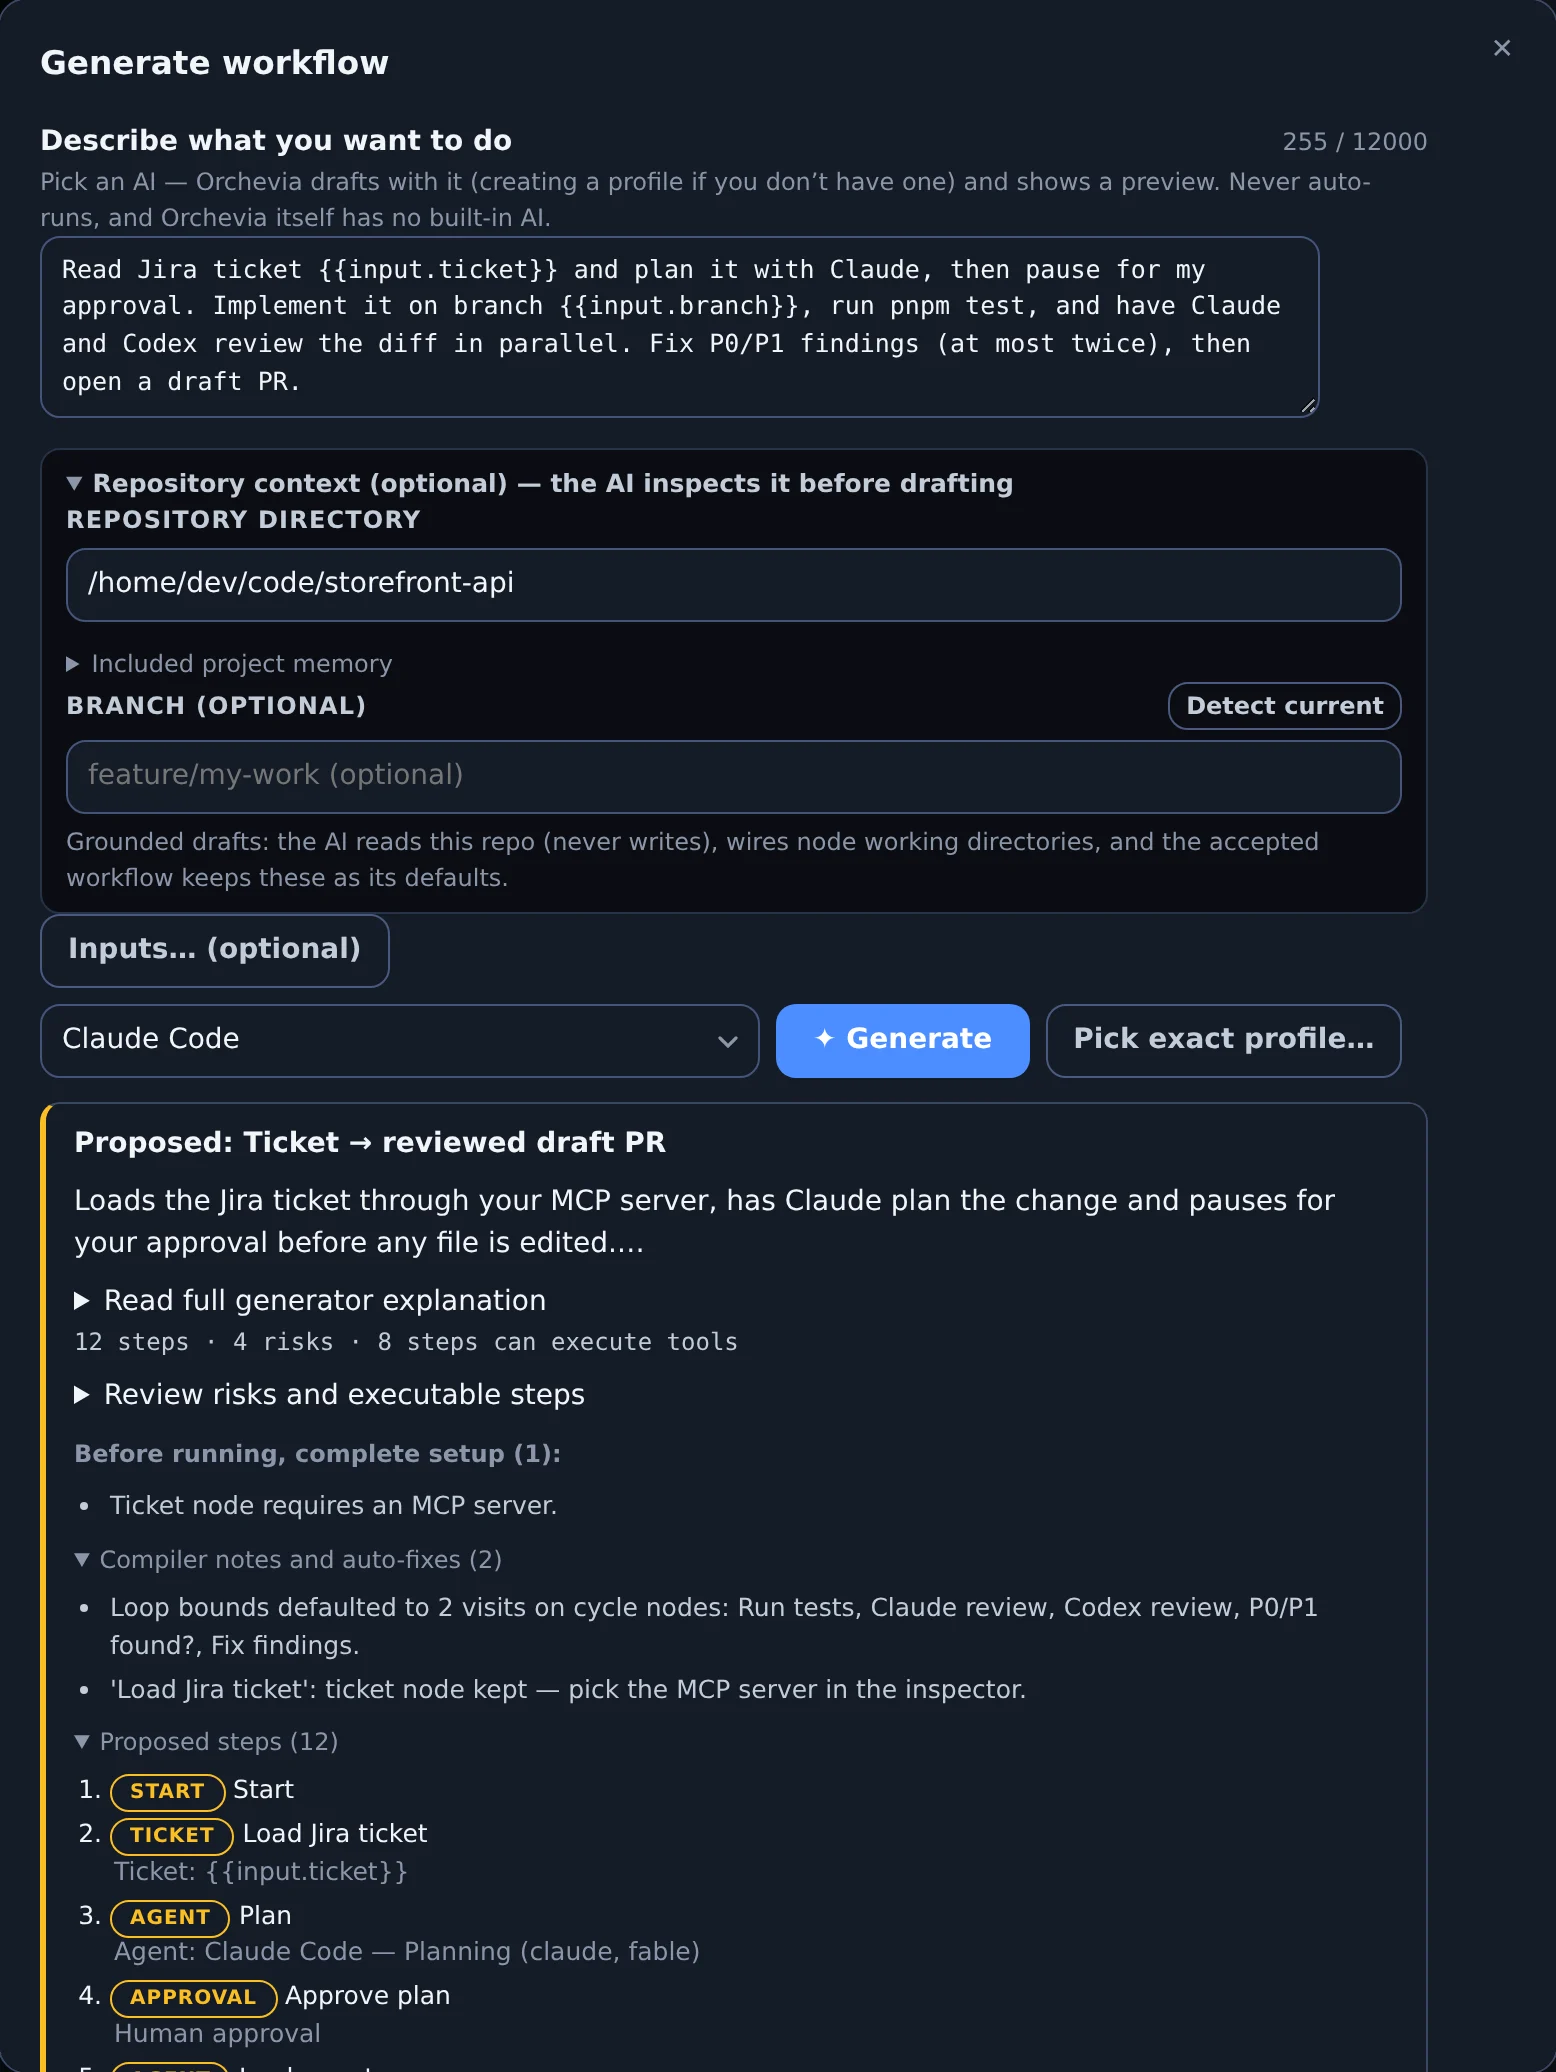
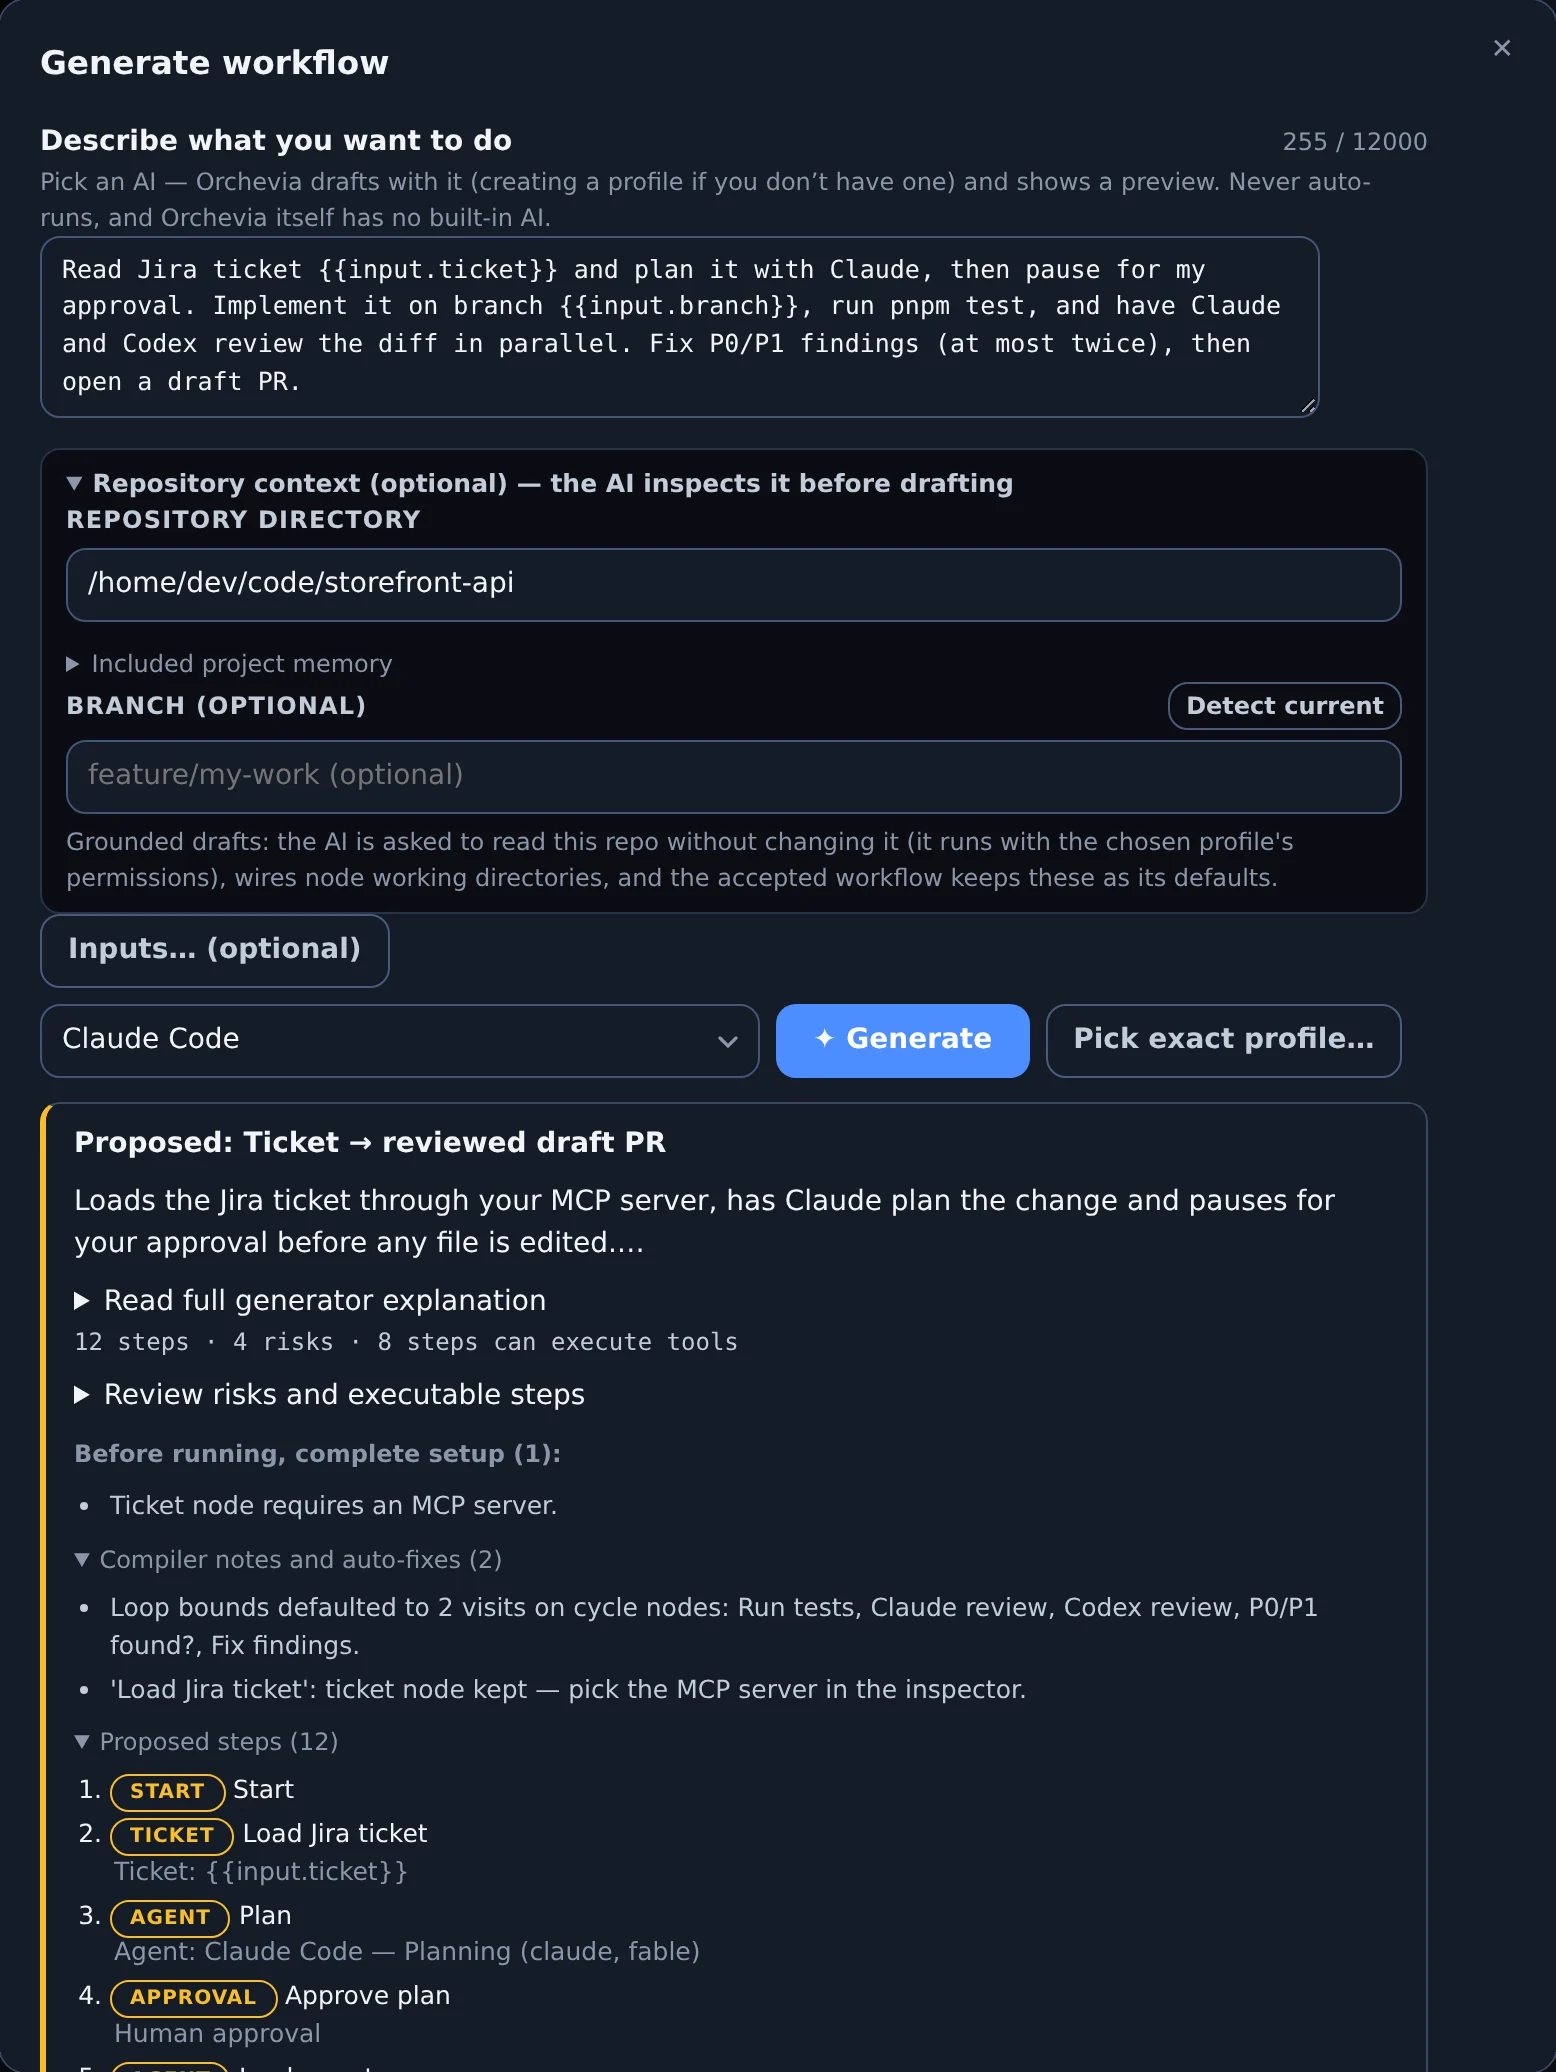
Describe generation and refusal detection accurately
Generation runs with the chosen profile's permissions, so it is asked not to
change the repository rather than guaranteed not to; refusal detection covers
Claude Code structured output only. Tour panels are now focusable.

Changed region(s): [[0.0617, 0.4015, 0.8329, 0.4324]]

diff --git a/docs/index.html b/docs/index.html
@@ -290,6 +290,9 @@
         font-size: 13px;
         margin-top: 14px;
       }
+      figure.shot-hero {
+        margin: 0;
+      }
       .window {
         margin: 40px auto 8px;
         border: 1px solid var(--border-strong);
@@ -1149,8 +1152,9 @@ Press ▶ Run demo to start. The run pauses at the approval gate until you appro
               <ol class="numbered">
                 <li>
                   <strong>Open Workflows → ✦ Generate.</strong> Pick Claude Code or Codex
-                  and, optionally, a repository: the AI reads it (never writes) so the
-                  draft uses your real paths and conventions.
+                  and, optionally, a repository: the AI is asked to inspect it without
+                  changing anything, so the draft uses your real paths and conventions. It
+                  runs with that profile's permissions.
                 </li>
                 <li>
                   <strong>Write the goal like a short spec.</strong> Name the agents, the
@@ -1247,6 +1251,7 @@ Read Jira ticket {{input.ticket}} and plan it with Claude, then pause for my app
             <div
               class="tour-panel"
               role="tabpanel"
+              tabindex="0"
               id="panel-editor"
               aria-labelledby="tab-editor"
             >
@@ -1279,6 +1284,7 @@ Read Jira ticket {{input.ticket}} and plan it with Claude, then pause for my app
             <div
               class="tour-panel"
               role="tabpanel"
+              tabindex="0"
               id="panel-runs"
               aria-labelledby="tab-runs"
             >
@@ -1310,6 +1316,7 @@ Read Jira ticket {{input.ticket}} and plan it with Claude, then pause for my app
             <div
               class="tour-panel"
               role="tabpanel"
+              tabindex="0"
               id="panel-usage"
               aria-labelledby="tab-usage"
             >
@@ -1341,6 +1348,7 @@ Read Jira ticket {{input.ticket}} and plan it with Claude, then pause for my app
             <div
               class="tour-panel"
               role="tabpanel"
+              tabindex="0"
               id="panel-agents"
               aria-labelledby="tab-agents"
             >
@@ -1555,7 +1563,8 @@ Read Jira ticket {{input.ticket}} and plan it with Claude, then pause for my app
               <h3>Refusals fail the step</h3>
               <p>
                 When headless Claude Code refuses a tool, the step fails with the exact
-                allow rules that would admit it — never a silent “success”.
+                allow rules that would admit it instead of a silent “success”. Codex and
+                Claude text-output profiles report no refusals, so these can't be caught.
               </p>
             </div>
             <div class="card">

diff --git a/src/components/WorkflowsView.tsx b/src/components/WorkflowsView.tsx
@@ -1142,7 +1142,8 @@ export function WorkflowsView(): React.JSX.Element {
                     />
                   </fieldset>
                   <span className="field-hint">
-                    Grounded drafts: the AI reads this repo (never writes), wires node
+                    Grounded drafts: the AI is asked to read this repo without changing it
+                    (it runs with the chosen profile&apos;s permissions), wires node
                     working directories, and the accepted workflow keeps these as its
                     defaults.
                   </span>

diff --git a/src/test/public-docs.test.ts b/src/test/public-docs.test.ts
@@ -145,6 +145,9 @@ describe('public page scripts', () => {
     el('#tab-runs').dispatchEvent(new KeyboardEvent('keydown', { key: 'ArrowRight' }));
     expect(el('#tab-usage').getAttribute('aria-selected')).toBe('true');
     expect(el('#panel-usage').hidden).toBe(false);
+    // Tab moves from the tab list into the visible panel.
+    for (const panel of document.querySelectorAll<HTMLElement>('[role="tabpanel"]'))
+      expect(panel.tabIndex, panel.id).toBe(0);
   });
 
   it('replays the run, waits for approval, loops once and opens the draft PR', async () => {

diff --git a/README.md b/README.md
@@ -158,7 +158,8 @@ CLI, model, effort and permission level. CLIs are found on your login shell's `P
 <img align="right" width="380" src="./docs/images/generate-dialog.webp" alt="The Generate workflow dialog: a goal describing a ticket-to-PR flow, a repository directory, and a preview listing 12 steps, 4 risk categories, one setup item, the compiler notes and the proposed steps." />
 
 1. Open **Workflows → ✦ Generate**, pick Claude Code or Codex, and optionally point it at
-   a repository so the draft uses your real paths and conventions.
+   a repository so the draft uses your real paths and conventions. The AI is asked to
+   inspect it without changing anything, but it runs with that profile's permissions.
 2. Write the goal like a short spec. Name the agents, the commands that prove the change
    works, where you want to approve, and which writes are allowed:
 
@@ -235,8 +236,8 @@ More: [execution semantics](docs/execution.md), [agent profiles and permissions]
   Executables and arguments are passed separately; a shell runs only when a Command node
   asks for one.
 - **Permissions you can read.** Profiles pass permission flags only on the command line;
-  Orchevia never edits your Claude Code or Codex settings. Refused tool calls fail the
-  step instead of passing silently.
+  Orchevia never edits your Claude Code or Codex settings. Tools that Claude Code refuses
+  fail the step instead of passing silently.
 - **Untrusted input stays data.** Ticket text, PR content, imported workflows and AI
   output are treated as untrusted. Imports refuse files that contain credential-like
   fields.
@@ -254,8 +255,9 @@ Details: [security model](./docs/security.md) and [SECURITY.md](./SECURITY.md).
   environment the app was started from.
 - **Local scheduling:** the app must be running. Background mode keeps it in the tray
   when the window closes; there is no cloud worker.
-- **Codex refusals:** Codex reports no refusal events, so a blocked Codex command is not
-  detected the way Claude Code refusals are.
+- **Refusal detection:** Codex reports no refusal events, and neither do Claude profiles
+  whose extra arguments force text output (`--output-format`), so refused tools in
+  those steps are not detected.
 
 ## Build from source
 

diff --git a/implementation-plan/v017-public-launch-and-actions-usage.md b/implementation-plan/v017-public-launch-and-actions-usage.md
@@ -23,11 +23,14 @@ for 14 days.
    - Both DMGs build on `macos-15` (Apple Silicon): `aarch64-apple-darwin`
      natively and `x86_64-apple-darwin` cross-compiled. Staging checks every
      executable in the `.app` with `lipo -archs` against the matrix architecture.
+     Both jobs request `app,dmg`, because Tauri deletes the `.app` when only `dmg`
+     is requested (found in review).
    - Build jobs no longer use Rust or pnpm caches; validation restores main's core
      cache with `save-if: false`.
    - Installer artifacts are kept for one day.
    - `scripts/workflows.test.mjs` runs the real staging block: an arm64 or
      universal binary can't ship as the Intel DMG, and Linux needs both packages.
+     It also pins the macOS matrix (targets and `app,dmg`).
 3. **Other workflows.**
    - Pages starts only for `docs/**`, its own workflow or `scripts/ci-changes.mjs`.
      Its validation requires latest-release links and existing images.
@@ -62,6 +65,15 @@ for 14 days.
      "Keeping Actions usage low".
    - Getting started, ROADMAP and CONTRIBUTING (Node 24+) were updated.
    - Employer-like ticket keys in tests and a placeholder became `DEV-1234`.
+
+## Review follow-ups
+
+- Generation runs with the selected profile's permissions, so the docs and the
+  Generate dialog hint now say the AI is asked not to change the repository rather
+  than that it never writes.
+- Refusal detection is described as Claude Code structured output only; Codex and
+  text-output Claude profiles are listed as undetected.
+- Tour panels are focusable (`tabindex="0"`), as the tabs pattern expects.
 
 ## Not changed
 

diff --git a/CHANGELOG.md b/CHANGELOG.md
@@ -50,6 +50,9 @@ All notable changes are recorded here, following
   - Rust: tauri-build 2.7.2, tauri-plugin-dialog 2.8.3, tokio 1.53.3,
     serde_json 1.0.154 and uuid 1.28.0.
 - Examples, placeholders and tests use generic ticket keys.
+- The Generate dialog's repository hint no longer claims the AI never writes. It is
+  asked to read the repository without changing it, but it runs with the chosen
+  profile's permissions.
 
 ## [0.1.16] - 2026-10-20
 
